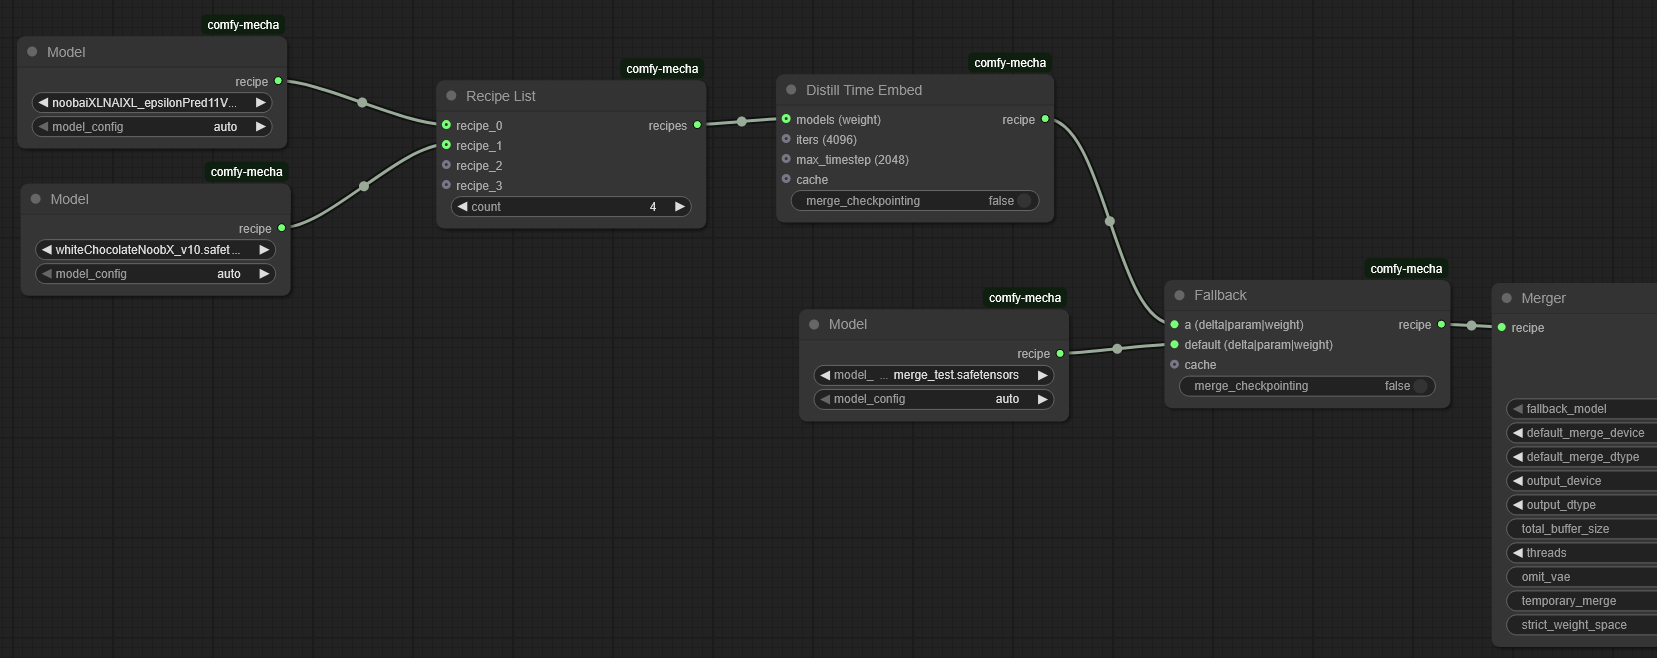
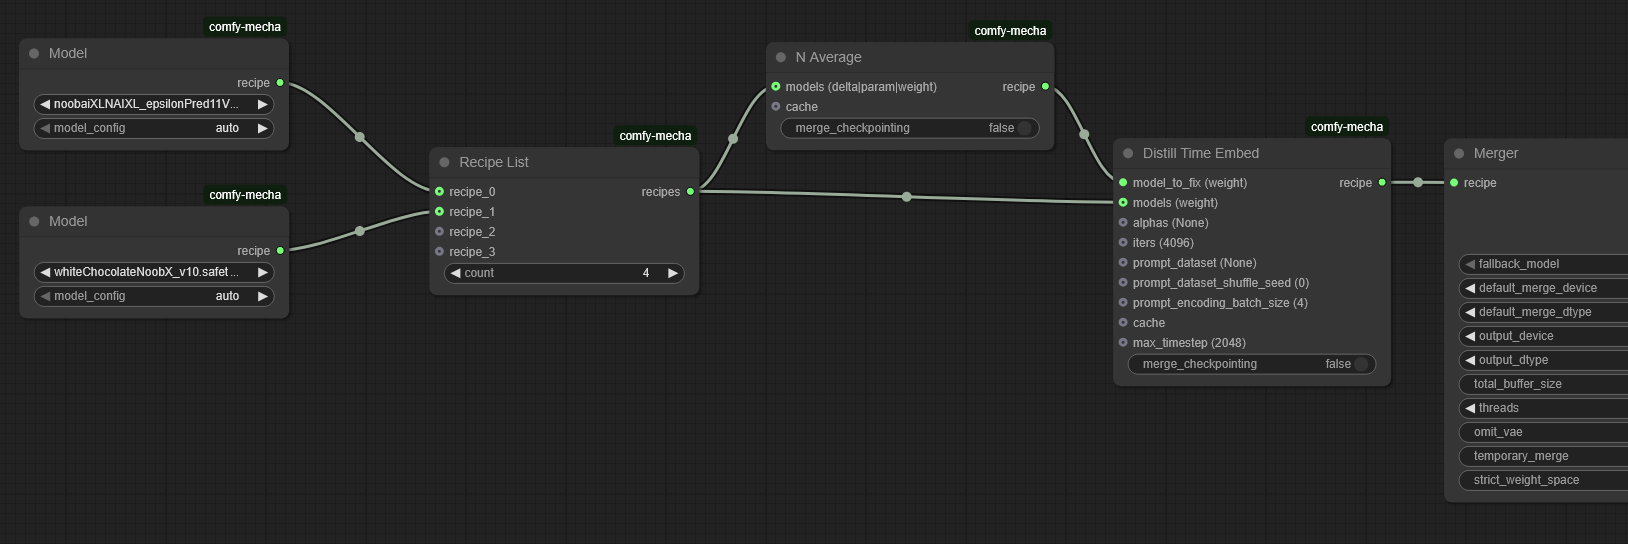
readme

diff --git a/README.md b/README.md
@@ -86,9 +86,6 @@ In ComfyUI, this is one way to use the `Distill Time Embed` node:
 
 ![ComfyUI workflow illustrating how to use Time Embed Fix](/media/comfyui.png)
 
-Using the `Fallback` node allows the method to be used as part of a larger merge workflow.  
-Alternatively, the `Fallback` node can be removed and the `fallback_model` input of the `Merger` node can be used instead.
-
 ## Honorable Mention
 
 Big thanks to Velvet Toroyashi and @vvv01d for reproducing my preliminary results and for going as far as experimenting with some alternatives and optimizing the script.
